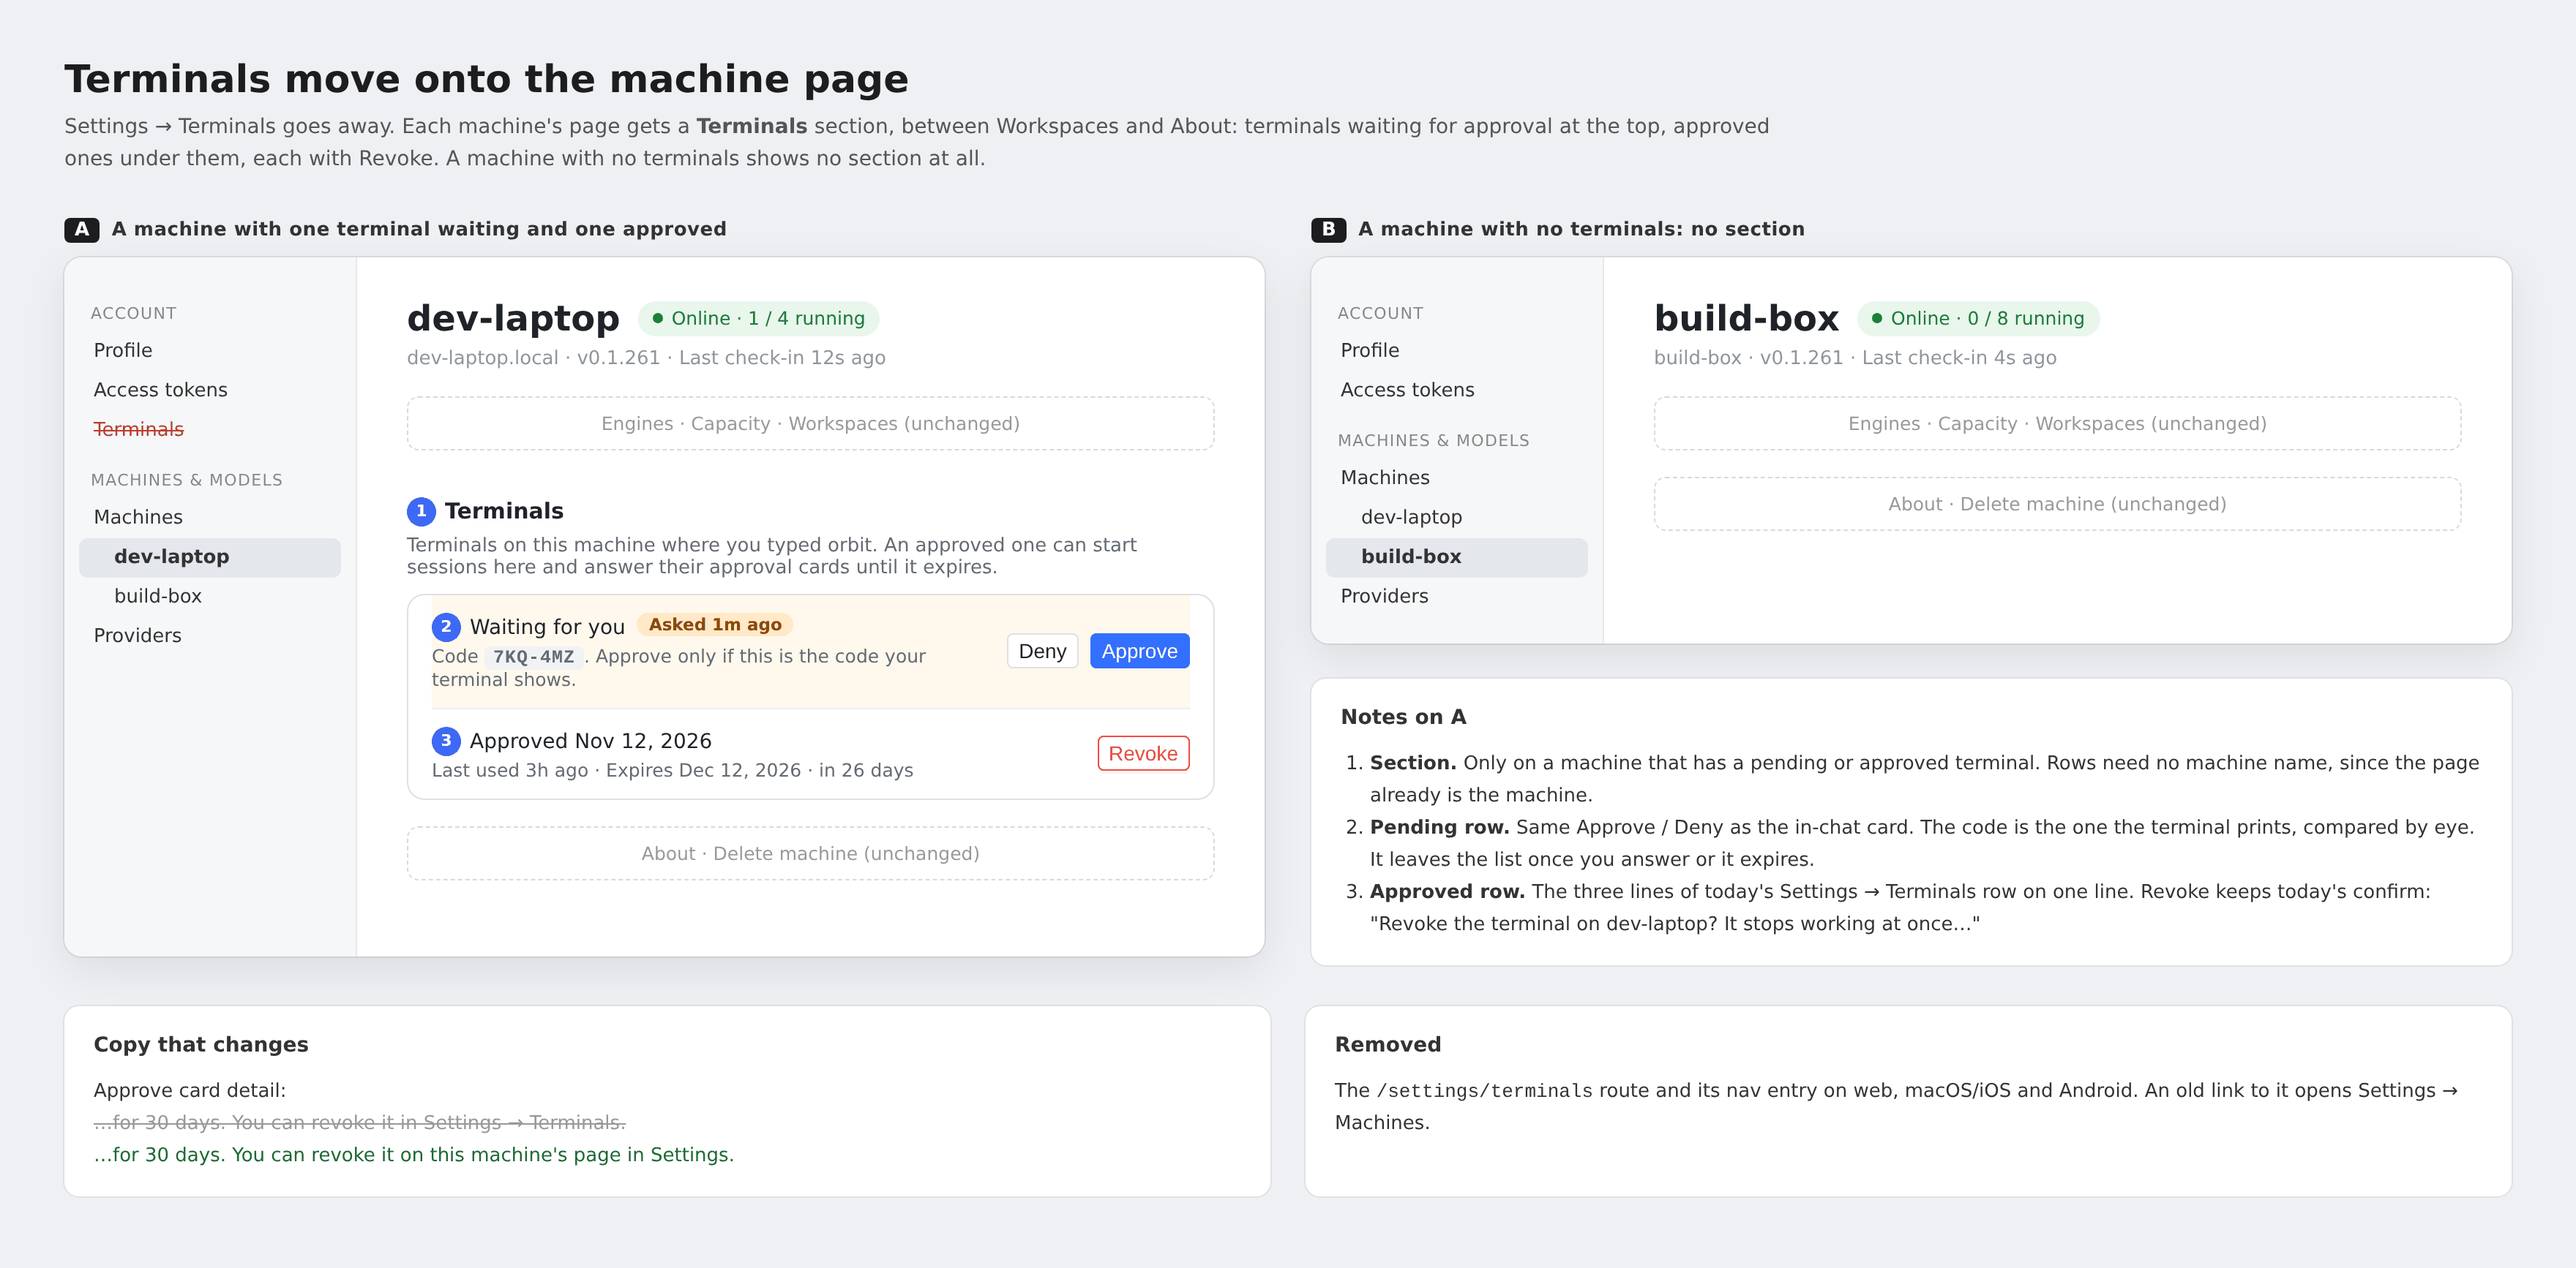
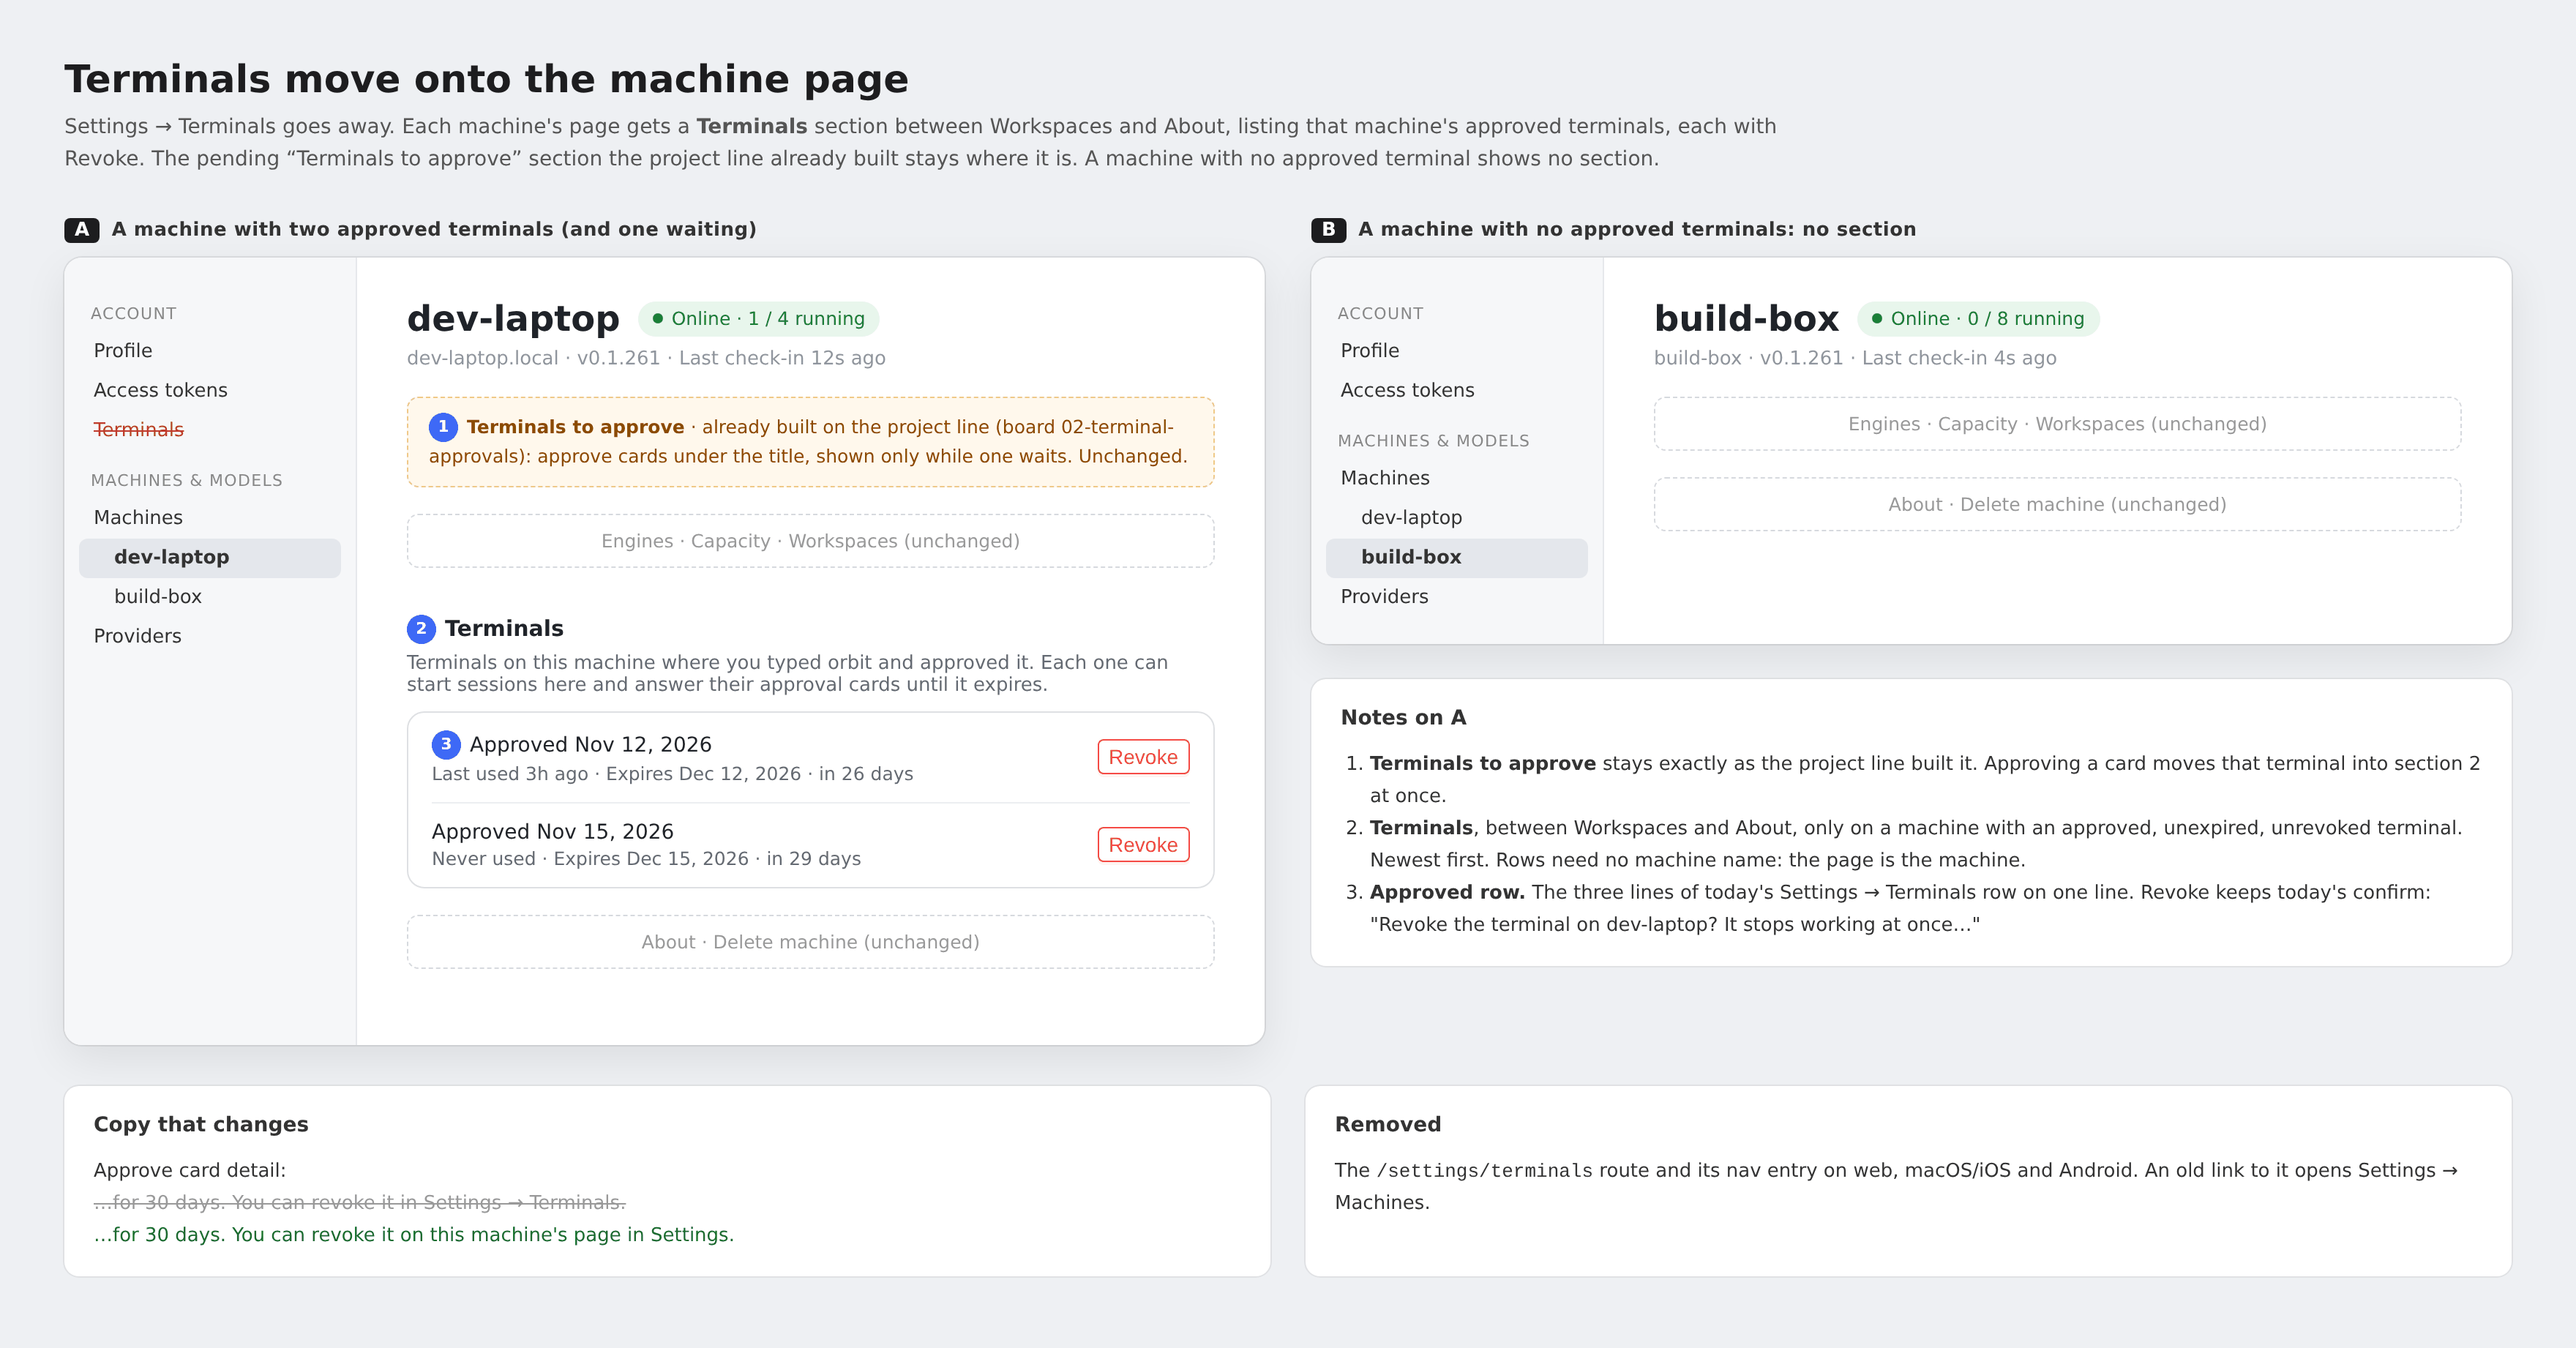
docs(mocks): keep the built pending section, board shows approved terminals only
The project line already puts "Terminals to approve" under the machine's
title (board 02-terminal-approvals); this board adds only the approved
list between Workspaces and About.

diff --git a/docs/mocks/terminals-on-machine-page/01-board.html b/docs/mocks/terminals-on-machine-page/01-board.html
@@ -28,7 +28,7 @@
   .nav-i.gone { color: #c0392b; text-decoration: line-through; }
   .main { padding: 28px 34px 34px; min-width: 0; }
   .elided { color: #999; font-size: 12.5px; border: 1px dashed #d6d9de; border-radius: 8px; padding: 10px 14px; margin: 18px 0; text-align: center; }
-  .pending-row { background: #fff8ec; }
+  .built { font-size: 12.5px; color: #8a4b00; background: #fff8ec; border: 1px dashed #f0c987; border-radius: 8px; padding: 10px 14px; margin: 18px 0 0; line-height: 1.6; }
   .code { font-family: ui-monospace, Menlo, monospace; font-weight: 600; letter-spacing: .04em; background: #f1f2f4; padding: 1px 6px; border-radius: 4px; }
   .acts { display: flex; gap: 8px; }
   .mark { display: inline-flex; width: 20px; height: 20px; border-radius: 50%; background: #3e69f6; color: #fff; font-size: 11px; font-weight: 700; align-items: center; justify-content: center; margin-right: 6px; vertical-align: 1px; }
@@ -44,12 +44,12 @@
 <body>
 <div class="m-sheet">
   <h1 class="b-title">Terminals move onto the machine page</h1>
-  <p class="b-sub">Settings → Terminals goes away. Each machine's page gets a <b>Terminals</b> section, between Workspaces and About: terminals waiting for approval at the top, approved ones under them, each with Revoke. A machine with no terminals shows no section at all.</p>
+  <p class="b-sub">Settings → Terminals goes away. Each machine's page gets a <b>Terminals</b> section between Workspaces and About, listing that machine's approved terminals, each with Revoke. The pending &ldquo;Terminals to approve&rdquo; section the project line already built stays where it is. A machine with no approved terminal shows no section.</p>
 
   <div class="frames">
     <!-- A: pending + approved -->
     <div class="frame">
-      <div class="frame-label"><span>A</span>A machine with one terminal waiting and one approved</div>
+      <div class="frame-label"><span>A</span>A machine with two approved terminals (and one waiting)</div>
       <div class="win">
         <nav class="nav">
           <div class="nav-h">Account</div>
@@ -72,26 +72,25 @@
               <div class="machine-metaline">dev-laptop.local · v0.1.261 · Last check-in 12s ago</div>
             </header>
 
+            <div class="built"><span class="mark">1</span><b>Terminals to approve</b> · already built on the project line (board 02-terminal-approvals): approve cards under the title, shown only while one waits. Unchanged.</div>
+
             <div class="elided">Engines · Capacity · Workspaces (unchanged)</div>
 
             <section class="settings-section">
-              <div class="settings-section-head"><h2 class="settings-section-title"><span class="mark">1</span>Terminals</h2></div>
-              <p class="settings-section-description">Terminals on this machine where you typed orbit. An approved one can start sessions here and answer their approval cards until it expires.</p>
+              <div class="settings-section-head"><h2 class="settings-section-title"><span class="mark">2</span>Terminals</h2></div>
+              <p class="settings-section-description">Terminals on this machine where you typed orbit and approved it. Each one can start sessions here and answer their approval cards until it expires.</p>
               <div class="settings-card">
-                <div class="settings-row pending-row">
-                  <div class="settings-row-text">
-                    <div class="settings-row-title"><span class="mark">2</span>Waiting for you<span class="pill-amber">Asked 1m ago</span></div>
-                    <div class="settings-row-description">Code <span class="code">7KQ-4MZ</span>. Approve only if this is the code your terminal shows.</div>
-                  </div>
-                  <div class="settings-row-control"><div class="acts">
-                    <button class="orbit-button orbit-button-default orbit-button-small">Deny</button>
-                    <button class="orbit-button orbit-button-primary orbit-button-small">Approve</button>
-                  </div></div>
-                </div>
                 <div class="settings-row">
                   <div class="settings-row-text">
                     <div class="settings-row-title"><span class="mark">3</span>Approved Nov 12, 2026</div>
                     <div class="settings-row-description">Last used 3h ago · Expires Dec 12, 2026 · in 26 days</div>
+                  </div>
+                  <div class="settings-row-control"><button class="orbit-button orbit-button-default orbit-button-small orbit-button-danger">Revoke</button></div>
+                </div>
+                <div class="settings-row">
+                  <div class="settings-row-text">
+                    <div class="settings-row-title">Approved Nov 15, 2026</div>
+                    <div class="settings-row-description">Never used · Expires Dec 15, 2026 · in 29 days</div>
                   </div>
                   <div class="settings-row-control"><button class="orbit-button orbit-button-default orbit-button-small orbit-button-danger">Revoke</button></div>
                 </div>
@@ -106,7 +105,7 @@
 
     <!-- B: none -->
     <div class="frame">
-      <div class="frame-label"><span>B</span>A machine with no terminals: no section</div>
+      <div class="frame-label"><span>B</span>A machine with no approved terminals: no section</div>
       <div class="win">
         <nav class="nav">
           <div class="nav-h">Account</div>
@@ -136,8 +135,8 @@
       <div class="note" style="margin-top:24px">
         <h3>Notes on A</h3>
         <ol>
-          <li><b>Section.</b> Only on a machine that has a pending or approved terminal. Rows need no machine name, since the page already is the machine.</li>
-          <li><b>Pending row.</b> Same Approve / Deny as the in-chat card. The code is the one the terminal prints, compared by eye. It leaves the list once you answer or it expires.</li>
+          <li><b>Terminals to approve</b> stays exactly as the project line built it. Approving a card moves that terminal into section 2 at once.</li>
+          <li><b>Terminals</b>, between Workspaces and About, only on a machine with an approved, unexpired, unrevoked terminal. Newest first. Rows need no machine name: the page is the machine.</li>
           <li><b>Approved row.</b> The three lines of today's Settings → Terminals row on one line. Revoke keeps today's confirm: "Revoke the terminal on dev-laptop? It stops working at once…"</li>
         </ol>
       </div>
